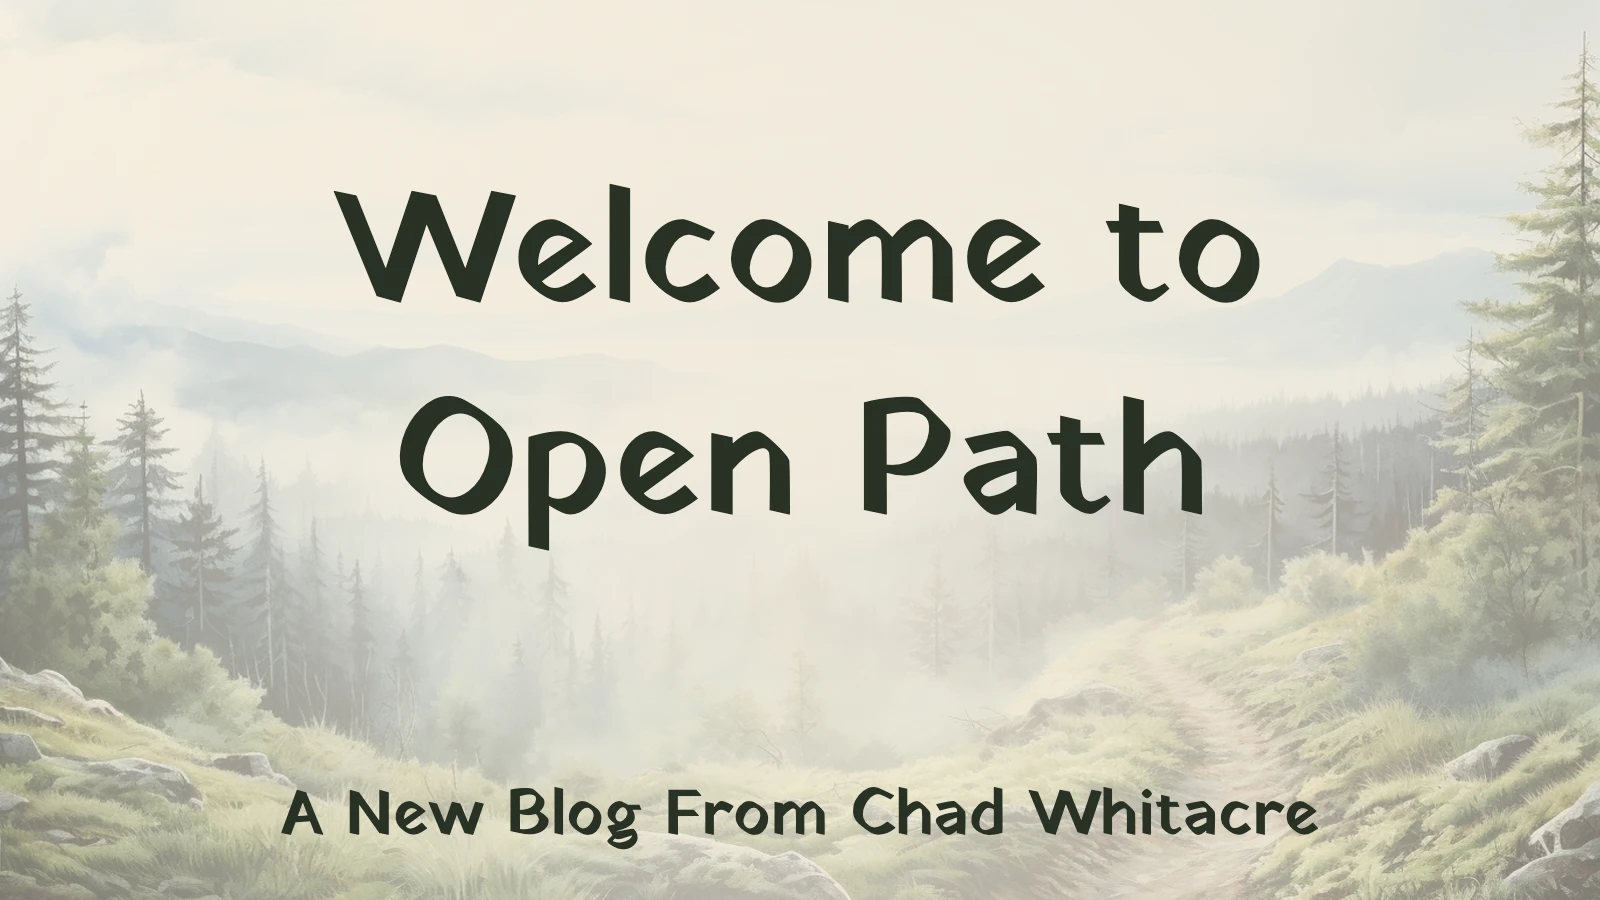
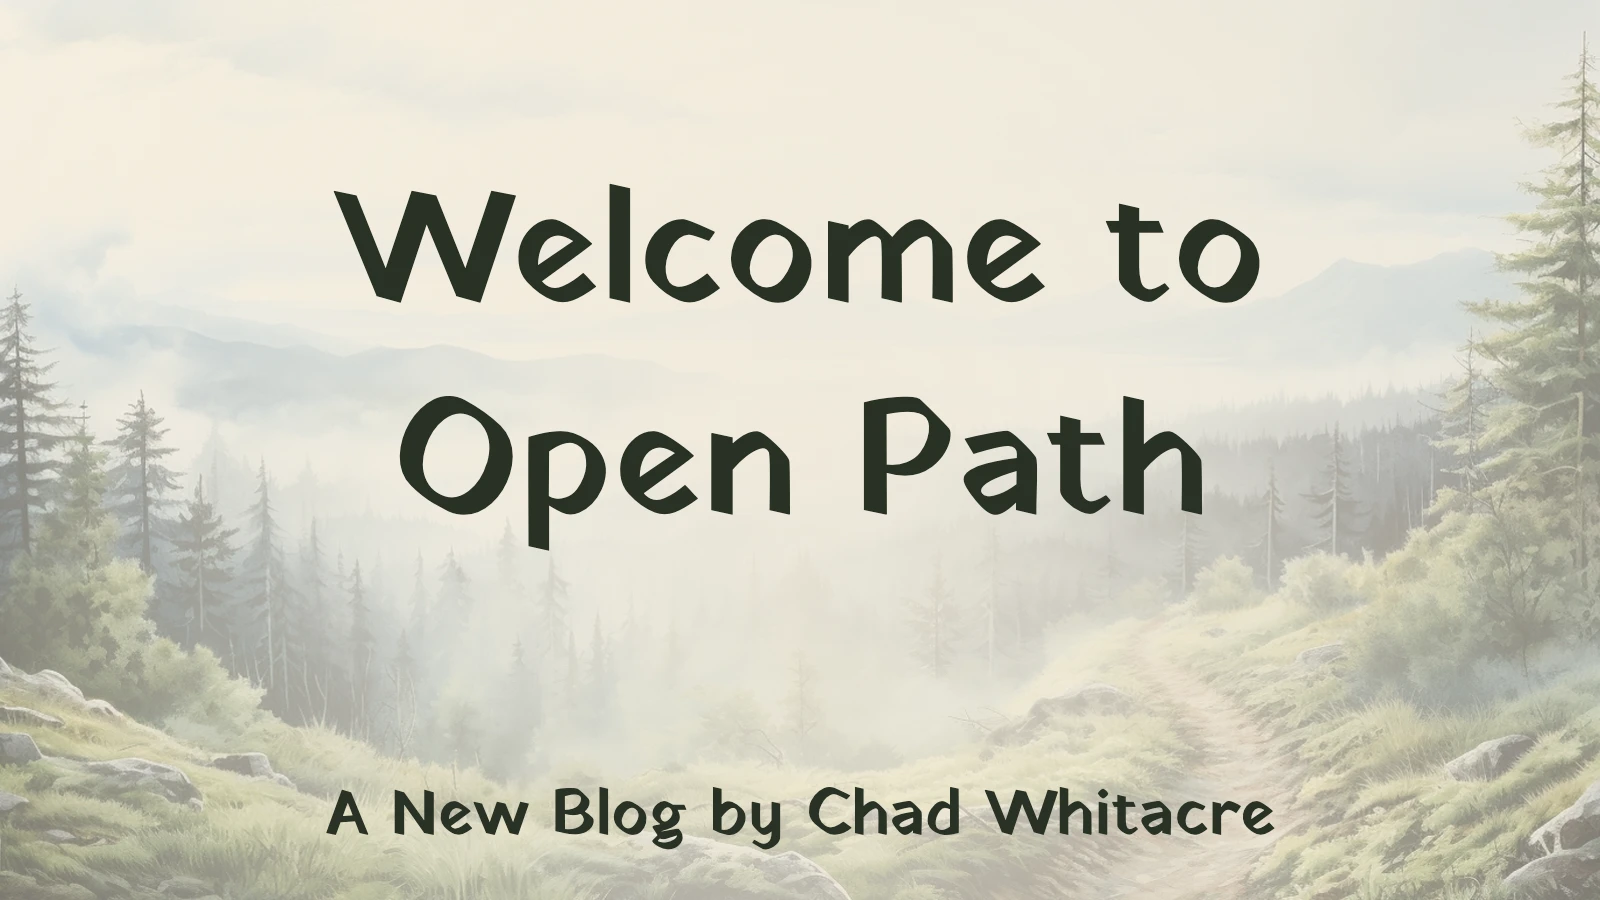
for ⇒ by

Changed region(s): [[0.1562, 0.8711, 0.8438, 0.9644]]

diff --git a/README.md b/README.md
@@ -1,14 +1,13 @@
 # Open Path
 
-<img src="https://raw.githubusercontent.com/chadwhitacre/openpath.chadwhitacre.com/main/assets/slice.jpg">
+<img src="https://raw.githubusercontent.com/chadwhitacre/openpath/main/assets/slice.jpg">
 
 ### Welcome!
 
 This repo holds the source code for
-[openpath.chadwhitacre.com](https://openpath.chadwhitacre.com/), where I
-contribute to and host conversations about topics of interest to the Open
-Source community, the wider tech industry, and society at large. If you have
-questions or suggestions, feel free to [open an
-issue](https://github.com/chadwhitacre/openpath.chadwhitacre.com/issues/new),
-or reach out on [email](mailto:chadwhitacre@sentry.io) or
+[openpath.chadwhitacre.com](https://openpath.chadwhitacre.com/), where I blog
+about topics of interest to the Open Source community, the wider tech industry,
+and society at large. If you have questions or suggestions, feel free to [open
+an issue](https://github.com/chadwhitacre/openpath/issues/new), or reach out on
+[email](mailto:chadwhitacre@sentry.io) or
 [X](https://twitter.com/chadwhitacre_).

diff --git a/_posts/2024-01-02-welcome-to-open-path.md b/_posts/2024-01-02-welcome-to-open-path.md
@@ -1,6 +1,6 @@
 ---
 title: Welcome to Open Path
-excerpt: Open Path is a new blog from Chad Whitacre about Open Source, tech, and society
+excerpt: Open Path is a new blog by Chad Whitacre about Open Source, tech, and society
 ---
 
 Greetings! Welcome to [Open Path](/). The purpose of this blog is to contribute
